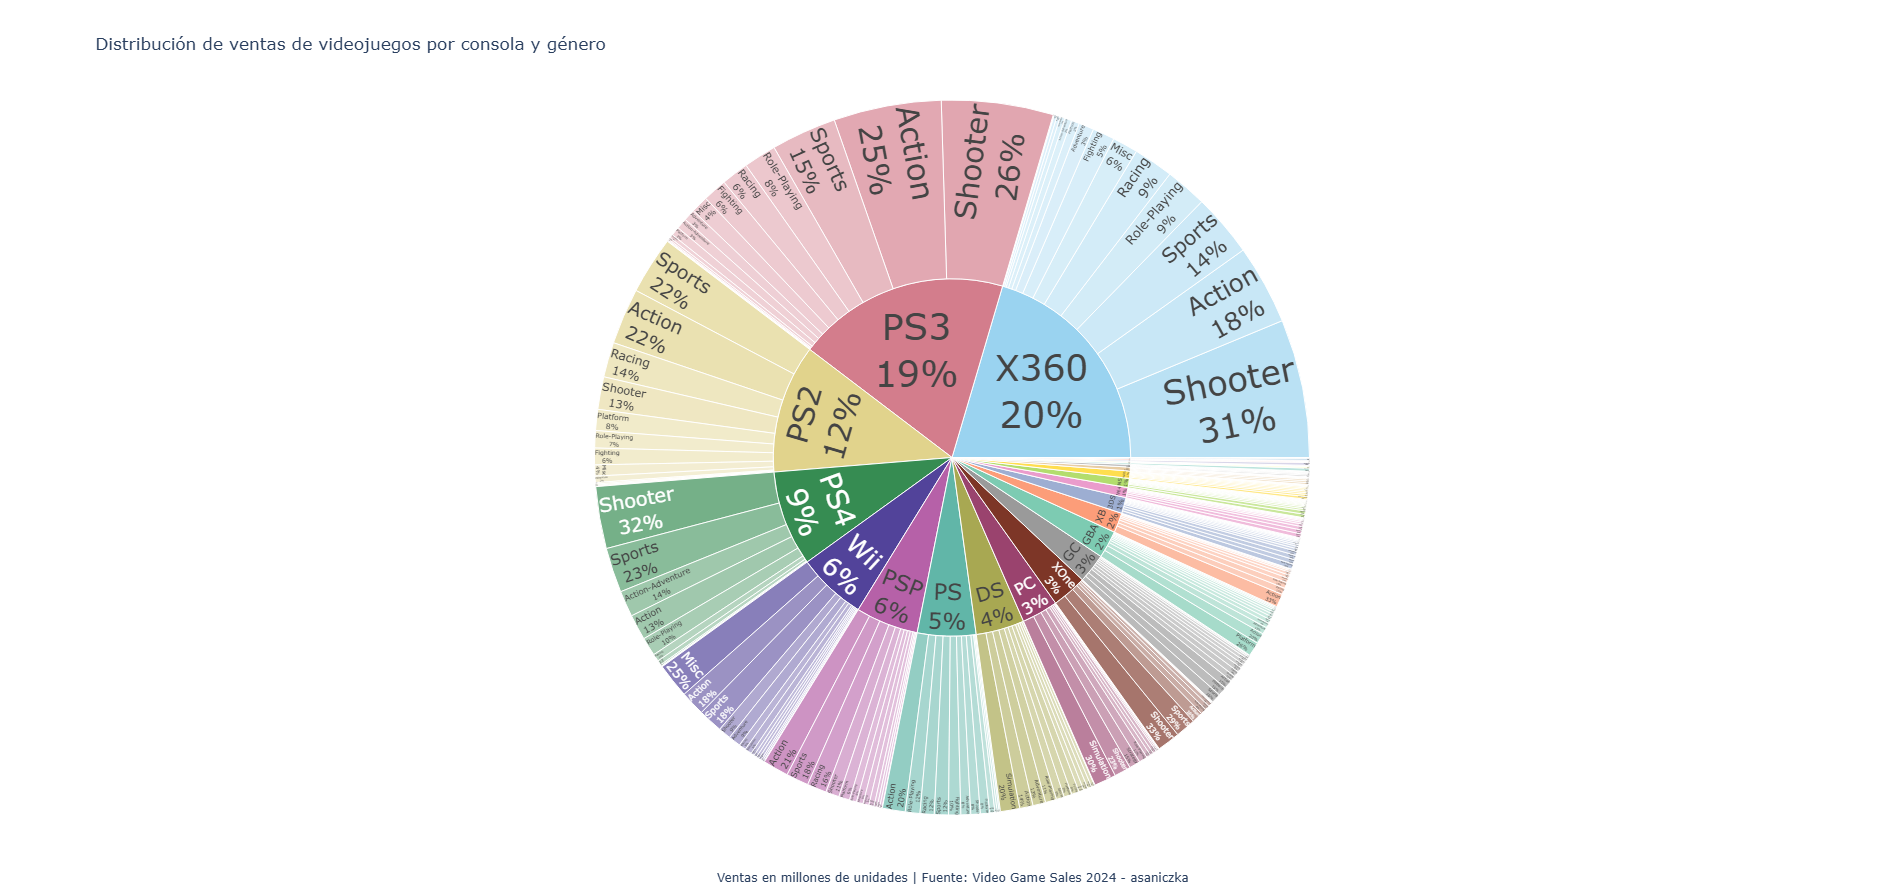
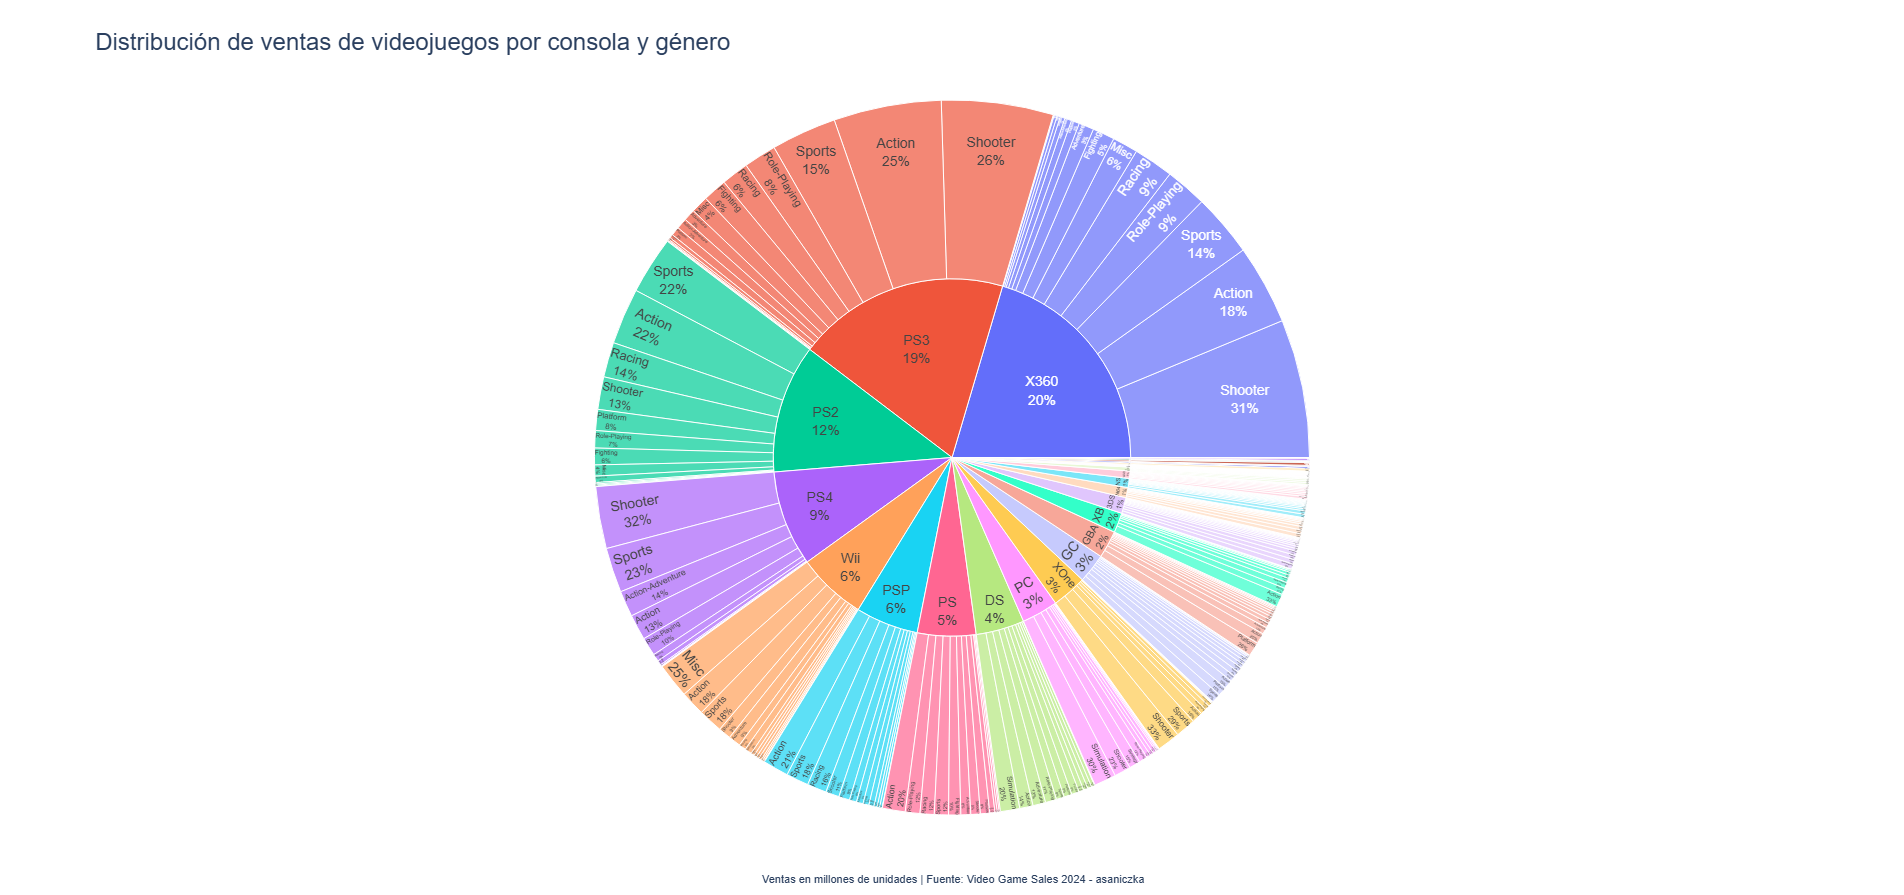
style: actualizar colores, fuente y tamaño

Changed region(s): [[0.3099, 0.0905, 0.7127, 0.9352], [0.031, 0.0302, 0.3718, 0.0603], [0.3718, 0.9654, 0.6197, 0.9955]]

diff --git a/Tarea-1/Codigos/IAGG/visualizacion.py b/Tarea-1/Codigos/IAGG/visualizacion.py
@@ -1,62 +1,7 @@
-import colorsys
 import pandas as pd
-import plotly.express as px
 import plotly.graph_objects as go
 import plotly.io as pio
 pio.renderers.default = "browser" #Sin esto crasheaba
-
-# ***** Funciones relacionadas al color ***** #
-def convertir_color_a_rgb(color):
-    color = color.strip()
-    if color.startswith('rgb(') and color.endswith(')'):
-        partes = color[4:-1].split(',')
-        return tuple(int(float(p.strip())) for p in partes)
-    if color.startswith('#'):
-        color = color[1:]
-    return int(color[0:2], 16), int(color[2:4], 16), int(color[4:6], 16)
-
-
-def mezclar_con_blanco(color, intensidad):
-    """intensidad: 1.0 = color puro, 0.0 = blanco"""
-    r, g, b = convertir_color_a_rgb(color)
-    intensidad = max(0.0, min(1.0, float(intensidad)))
-    r_nuevo = int(255 - (255 - r) * intensidad)
-    g_nuevo = int(255 - (255 - g) * intensidad)
-    b_nuevo = int(255 - (255 - b) * intensidad)
-    return f'rgb({r_nuevo},{g_nuevo},{b_nuevo})'
-
-def generar_color_desde_hue(hue, saturacion=0.55, valor=0.90):
-    r, g, b = colorsys.hsv_to_rgb(hue, saturacion, valor)
-    return f'rgb({int(r*255)},{int(g*255)},{int(b*255)})'
-
-def suavizar_color(color, mantener=0.86):
-    return mezclar_con_blanco(color, mantener)
-
-def construir_paleta_muchos_colores():
-    colores_base = (
-        px.colors.qualitative.Safe
-        + px.colors.qualitative.Set2
-        + px.colors.qualitative.Set3
-        + px.colors.qualitative.Light24
-    )
-    colores_unicos = list(dict.fromkeys(colores_base))
-    return [suavizar_color(c, mantener=0.86) for c in colores_unicos]
-
-def asignar_colores_consolas(lista_consolas):
-    paleta = construir_paleta_muchos_colores()
-    mapa_colores = {}
-    for i, consola in enumerate(lista_consolas):
-        if i < len(paleta):
-            mapa_colores[consola] = paleta[i]
-        else:
-            break
-    if len(lista_consolas) > len(paleta):
-        razon_aurea = 0.61803398875
-        hue = 0.12
-        for consola in lista_consolas[len(paleta):]:
-            hue = (hue + razon_aurea) % 1.0
-            mapa_colores[consola] = generar_color_desde_hue(hue)
-    return mapa_colores
 
 # Cargar datos
 df = pd.read_csv("../../data/clean/vgchartz-2024-clean.csv")
@@ -78,42 +23,30 @@ totales_consola = (
     .sort_values('total_sales', ascending=False)
     .reset_index(drop=True)
 )
-orden_consolas = list(totales_consola['console'])
-mapa_colores = asignar_colores_consolas(orden_consolas)
-ids, etiquetas, padres, valores, colores = [], [], [], [], []
-
+ids, etiquetas, padres, valores = [], [], [], []
 
 # ***** Diagrama Sunburst ***** #
 for _, fila in totales_consola.iterrows():
     consola = fila['console']
     ventas_consola = fila['total_sales']
-    color_base = mapa_colores[consola]
     id_consola = f'consola::{consola}'
     ids.append(id_consola)
     etiquetas.append(consola)
     padres.append('')
     valores.append(ventas_consola)
-    colores.append(mezclar_con_blanco(color_base, 0.98))
     generos = (
         df_sunburst[df_sunburst['console'] == consola]
         .sort_values('total_sales', ascending=False)
         .copy()
     )
-    max_ventas_genero = generos['total_sales'].max()
-    if pd.isna(max_ventas_genero) or max_ventas_genero <= 0:
-        max_ventas_genero = 1.0
     for _, fila_genero in generos.iterrows():
         genero = fila_genero['genre']
         ventas_genero = fila_genero['total_sales']
-        proporcion = ventas_genero / max_ventas_genero
-        intensidad = 0.45 + 0.50 * proporcion
         id_genero = f'genero::{consola}::{genero}'
         ids.append(id_genero)
         etiquetas.append(genero)
         padres.append(id_consola)
         valores.append(ventas_genero)
-        colores.append(mezclar_con_blanco(color_base, intensidad))
-
 fig = go.Figure(
     go.Sunburst(
         ids=ids,
@@ -121,29 +54,30 @@ fig = go.Figure(
         parents=padres,
         values=valores,
         branchvalues='total',
-        marker=dict(colors=colores),
         textinfo="label+percent parent"
     )
 )
 
+# Ajuste de fuente y tamaño
 fig.update_layout(
-    title='Distribución de ventas de videojuegos por consola y género',
+    title=dict(
+        text='Distribución de ventas de videojuegos por consola y género',
+        font=dict(size=24)
+    ),
+    font=dict(family='Arial'),
     annotations=[
         dict(
             text='Ventas en millones de unidades | Fuente: Video Game Sales 2024 - asaniczka',
             x=0.5,
             y=-0.1,
+            font=dict(size=11),
             showarrow=False,
             xref='paper',
             yref='paper'
         )
     ]
 )
-
-# Tamaño de fuente acordado (igual que en EFRP y MBHF)
 fig.update_traces(
-    domain=dict(x=[0.125, 0.875]),
-    textfont_size=36
+    textfont_size=14
 )
-
 fig.show()
